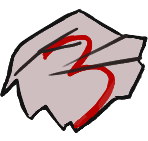
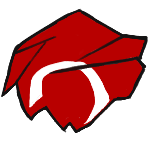
new painting
changed the images to make the game a bit clearer (many people didn't think to use the paper on the painting when I watched them play)

diff --git a/projects/project2/final/js/classes/room_puzzles/statue/PBlood.js b/projects/project2/final/js/classes/room_puzzles/statue/PBlood.js
@@ -11,7 +11,7 @@ class PBlood extends Puzzle {
             //turns the empty cube red when interacted with!
             let redCube = new Item('redcube', 'doorkey', images.iredcube);
             redCube.addToInventory();
-            this.itemInteracted = true;
+            this.itemInteracted = false;
         }
     }
 }
